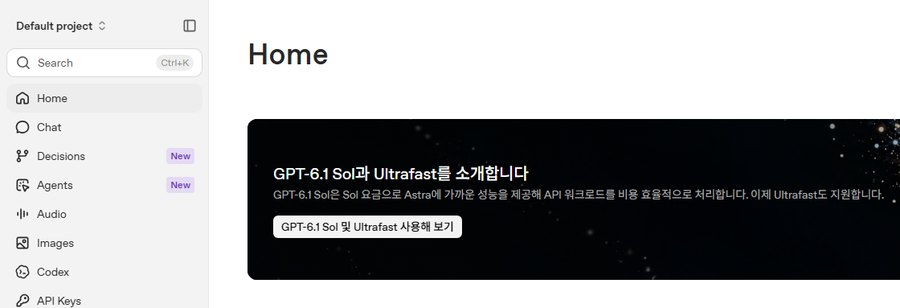
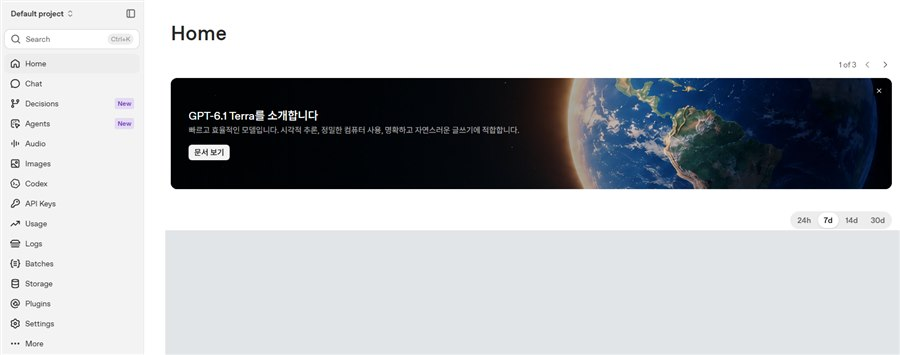
유치원 글뚝딱 1.0.7: OpenAI 안내를 지금 화면에 맞춤 (Organization settings 경로 · 한도 문구 · 사진 새로 찍음)

diff --git a/src/renderer/guide/SetupGuide.tsx b/src/renderer/guide/SetupGuide.tsx
@@ -18,7 +18,7 @@ export const STEPS: Step[] = [
   { id: 'A03', title: 'AI 소개' },
   { id: 'A03b', title: '개인정보' },
   { id: 'A04', title: 'OpenAI 가입', shot: 'oa-1-home.jpg', url: `${OPENAI}/` },
-  { id: 'A05', title: '카드 등록', shot: 'oa-2-billing.jpg', url: `${OPENAI}/settings/organization/billing/overview` },
+  { id: 'A05', title: '카드 등록', shot: 'oa-5-settings.jpg', url: `${OPENAI}/settings/organization/billing/overview` },
   { id: 'A06', title: '5달러 충전', shot: 'oa-2-billing.jpg', url: `${OPENAI}/settings/organization/billing/overview` },
   { id: 'A07', title: '월 한도', shot: 'oa-3-limits.jpg', url: `${OPENAI}/settings/organization/limits` },
   { id: 'A08', title: '키 만들기', shot: 'oa-4-keys.jpg', url: `${OPENAI}/api-keys` },
@@ -58,7 +58,7 @@ export function SetupGuide({ start, onClose, firstRun }: { start?: string; onClo
 
   const shotBox = step.shot && (
     <div className="guide-shot">
-      <img src={`./guide/${step.shot}`} alt={`${step.title} 화면 예시 (OpenAI 실제 화면, 2026-10-22)`} />
+      <img src={`./guide/${step.shot}`} alt={`${step.title} 화면 예시 (OpenAI 실제 화면, 2026-11-02)`} />
       <span className="hint">OpenAI 실제 화면 (2026-10-22). 화면이 다르면 짐작해서 누르지 말고 "화면이 달라요"를 눌러 주세요.</span>
       {step.url && <button type="button" className="btn" onClick={() => open(step.url!)}>OpenAI 화면 열기</button>}
     </div>
